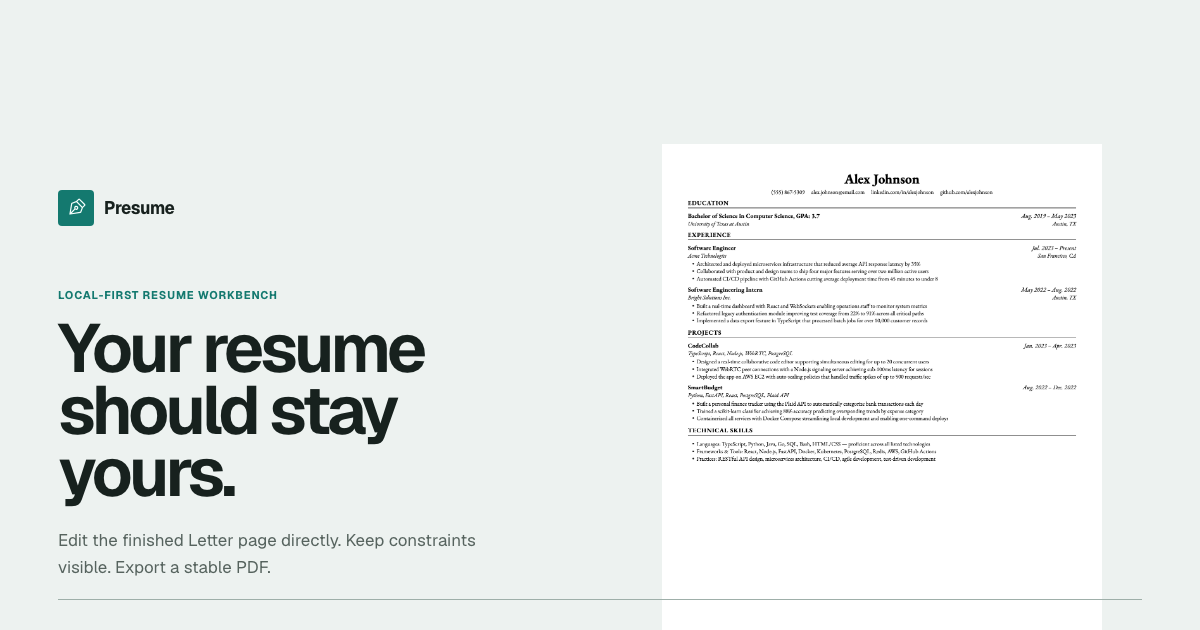
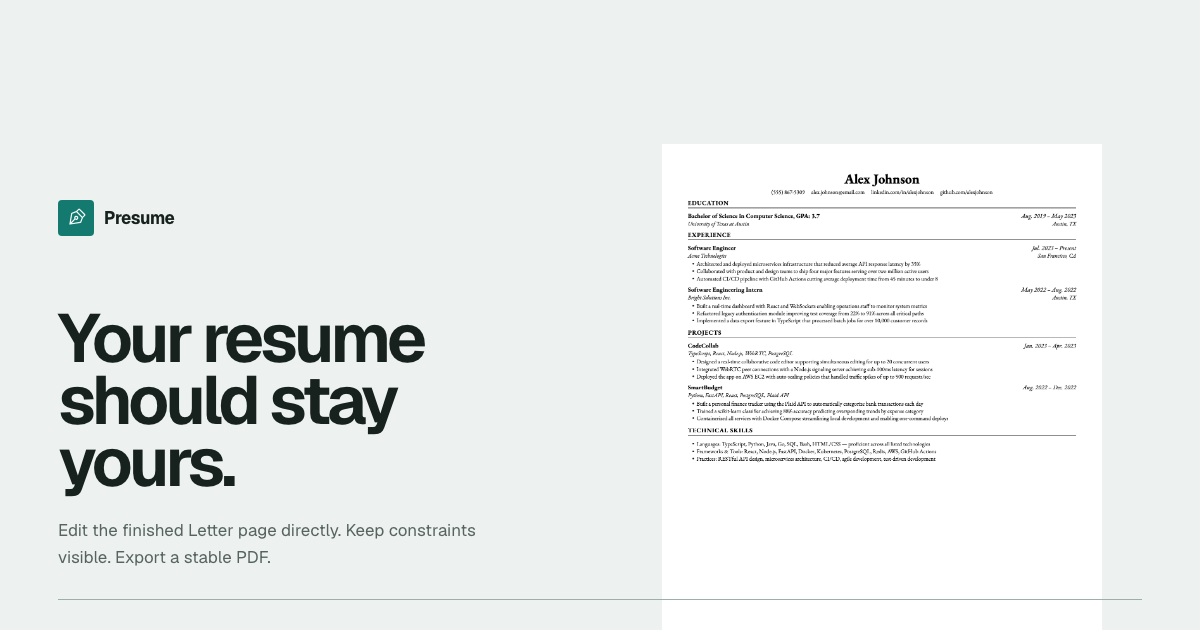
refactor: simplify landing section hierarchy

Changed region(s): [[0.0308, 0.4524, 0.4008, 0.9349], [0.0308, 0.3016, 0.1542, 0.3921]]

diff --git a/src/components/LandingPage.tsx b/src/components/LandingPage.tsx
@@ -162,7 +162,6 @@ export function LandingPage({ hasSavedResume, onOpenEditor }: LandingPageProps) 
       <main id="main" className="landing-main" tabIndex={-1}>
         <section className="landing-hero landing-shell" data-landing-chapter="hero" aria-labelledby="landing-title">
           <div className="landing-hero__copy">
-            <p className="landing-eyebrow"><span className="landing-hero__brand-prefix">Presume · </span>Local-first resume workbench</p>
             <h1 id="landing-title">Your resume should stay yours.</h1>
             <p className="landing-hero__lede">Edit the finished Letter page directly. Presume keeps page and line constraints visible, saves the resume in this browser, and exports a stable PDF. Review remains advisory and never changes the document.</p>
             <div className="landing-hero__action">
@@ -185,7 +184,6 @@ export function LandingPage({ hasSavedResume, onOpenEditor }: LandingPageProps) 
         <section className="landing-fit landing-shell" id="fit" data-landing-chapter="fit" aria-labelledby="fit-title">
           <div className="landing-fit__grid">
             <div className="landing-fit__copy">
-              <p className="landing-eyebrow">Visible constraints</p>
               <h2 id="fit-title">See the page before export.</h2>
               <p>Fit keeps page and line constraints visible while you edit, so you can see wrapping pressure and overflow before export.</p>
             </div>
@@ -210,7 +208,6 @@ export function LandingPage({ hasSavedResume, onOpenEditor }: LandingPageProps) 
         <section className="landing-review" data-landing-chapter="review" aria-labelledby="review-title">
           <div className="landing-review__inner landing-shell">
             <div className="landing-review__copy">
-              <p className="landing-eyebrow">Advisory Review</p>
               <h2 id="review-title">Review advises. It does not edit.</h2>
               <p>When you choose Review and an available service is configured, it can return category scores and supporting evidence beside the resume. It never rewrites or mutates the document.</p>
               <p className="landing-review__signature">It cannot <span>take the pen.</span></p>
@@ -236,7 +233,6 @@ export function LandingPage({ hasSavedResume, onOpenEditor }: LandingPageProps) 
         <section className="landing-boundaries" id="boundaries" data-landing-chapter="boundaries" aria-labelledby="boundaries-title">
           <div className="landing-boundaries__inner landing-shell">
             <div>
-              <p className="landing-eyebrow">Design boundaries</p>
               <h2 id="boundaries-title">Two systems stay explicit.</h2>
             </div>
             <div className="landing-boundaries__list">

diff --git a/src/styles/app.css b/src/styles/app.css
@@ -1070,15 +1070,6 @@ html:has(.landing-page) {
   transform: scaleX(1);
 }
 
-.landing-eyebrow {
-  color: #117168;
-  font-size: 11px;
-  font-weight: 720;
-  letter-spacing: 0.075em;
-  line-height: 1.35;
-  text-transform: uppercase;
-}
-
 .landing-page [data-slot='button'] {
   min-height: 44px;
   border: 1px solid #14796f;
@@ -1115,7 +1106,7 @@ html:has(.landing-page) {
 
 .landing-hero h1 {
   max-width: 10.5ch;
-  margin-block-start: 18px;
+  margin: 0;
   font-size: clamp(64px, 5.8vw, 84px);
   font-weight: 650;
   letter-spacing: -0.057em;
@@ -1161,12 +1152,12 @@ html:has(.landing-page) {
   inset-block-start: 52px;
   inset-inline-end: 0;
   width: 560px;
+  height: calc(560px * 11 / 8.5);
   aspect-ratio: 8.5 / 11;
 }
 
 .landing-letter-stage__image {
   display: block;
-  height: auto;
   background: #fffefb;
   object-fit: cover;
 }
@@ -1233,7 +1224,7 @@ html:has(.landing-page) {
 .landing-thesis__inner {
   display: grid;
   grid-template-columns: 1.25fr 0.75fr;
-  align-items: end;
+  align-items: center;
   gap: 64px;
   padding-block: 110px;
 }
@@ -1271,13 +1262,19 @@ html:has(.landing-page) {
 .landing-review h2,
 .landing-boundaries h2,
 .landing-ending h2 {
-  margin-block-start: 14px;
   font-size: clamp(44px, 4.6vw, 66px);
   font-weight: 640;
   letter-spacing: -0.05em;
   line-height: 0.98;
   text-wrap: balance;
 }
+
+.landing-fit h2,
+.landing-review h2,
+.landing-boundaries h2 { margin: 0; }
+
+.landing-continuity h2,
+.landing-ending h2 { margin-block-start: 14px; }
 
 .landing-fit h2 { max-width: 10ch; }
 
@@ -1555,7 +1552,7 @@ html:has(.landing-page) {
 
 .landing-review h2 { max-width: 10ch; }
 
-.landing-review__copy > p:not(.landing-eyebrow, .landing-review__signature) {
+.landing-review__copy > p:not(.landing-review__signature) {
   max-width: 43ch;
   margin-block-start: 24px;
   color: #56635e;
@@ -1749,6 +1746,7 @@ html:has(.landing-page) {
     inset-inline-end: auto;
     inset-inline-start: 50%;
     width: 500px;
+    height: calc(500px * 11 / 8.5);
     transform: translateX(-50%);
   }
 }
@@ -1820,10 +1818,6 @@ html:has(.landing-page) {
 
 @media (max-width: 400px) {
   .landing-capture--review { aspect-ratio: 366 / 603; }
-}
-
-@media (max-width: 360px) {
-  .landing-hero__brand-prefix { display: none; }
 }
 
 @media (prefers-reduced-motion: reduce) {

diff --git a/src/tests/responsiveLayout.test.ts b/src/tests/responsiveLayout.test.ts
@@ -9,7 +9,7 @@ const indexHtml = readFileSync(`${process.cwd()}/index.html`, 'utf8')
 
 describe('approved landing production contracts', () => {
   it('keeps every approved inclusive responsive boundary and overflow guard', () => {
-    for (const boundary of [1000, 920, 860, 780, 700, 400, 360]) {
+    for (const boundary of [1000, 920, 860, 780, 700, 400]) {
       expect(appCss).toContain(`@media (max-width: ${boundary}px)`)
     }
     expect(appCss).toMatch(/\.landing-page \{[^}]*overflow-x: clip;/)
@@ -42,6 +42,9 @@ describe('approved landing production contracts', () => {
     expect(landingSource).toContain('Resume preview unavailable')
     expect(landingSource).toContain('Product capture unavailable')
     expect(appCss).toMatch(/@media \(max-width: 700px\)[\s\S]*?\.landing-product-stage \{ display: none; \}/)
+    expect(landingSource).not.toContain('landing-eyebrow')
+    expect(appCss).not.toContain('.landing-eyebrow')
+    expect(appCss).toMatch(/\.landing-thesis__inner \{[^}]*align-items: center;/)
     expect(pretextDemoSource).toContain('prepareWithSegments')
     expect(pretextDemoSource).toContain('layoutWithLines')
     expect(pretextDemoSource).toContain('measureLineStats')

diff --git a/src/tests/appIntegration.test.tsx b/src/tests/appIntegration.test.tsx
@@ -85,6 +85,10 @@ describe('App review availability boundaries', () => {
     expect(screen.getByRole('contentinfo')).toBeInTheDocument()
     expect(screen.getAllByRole('heading', { level: 1 })).toHaveLength(1)
     expect(screen.getByRole('heading', { name: 'Your resume should stay yours.' })).toBeInTheDocument()
+    expect(container.querySelector('.landing-eyebrow')).not.toBeInTheDocument()
+    expect(screen.queryByText('Local-first resume workbench')).not.toBeInTheDocument()
+    expect(screen.queryByText('Visible constraints')).not.toBeInTheDocument()
+    expect(screen.queryByText('Advisory Review')).not.toBeInTheDocument()
 
     const chapters = Array.from(container.querySelectorAll('[data-landing-chapter]'))
       .map(chapter => chapter.getAttribute('data-landing-chapter'))

diff --git a/docs/landing/PRESUME_LANDING_BRIEF.md b/docs/landing/PRESUME_LANDING_BRIEF.md
@@ -16,7 +16,7 @@ The hardened comp is the visual and narrative authority. The distilled study is 
 
 Two post-approval factual corrections are incorporated into the archived hardened authority: Review must be configured **and available** before it can return evidence, and the deterministic repository response is displayed with the sample resume rather than validated as content-derived from it.
 
-Later user-approved production reopenings supersede two evidence contracts. The Fit chapter uses the live, text-only Pretext instrument specified below. The hero replaces its framed editor screenshot with an authentic exported Letter surface above 700px and becomes purely typographic at 700px and below. The archived hardened comp and `docs/landing/reference/**` remain historical visual authorities; their Fit and editor-hero rasters are no longer production requirements. All other Quiet Instrument narrative, geometry, capture, and protected-product decisions remain locked.
+Later user-approved production reopenings supersede selected evidence and hierarchy contracts. The Fit chapter uses the live, text-only Pretext instrument specified below. The hero replaces its framed editor screenshot with an authentic exported Letter surface above 700px and becomes purely typographic at 700px and below. Decorative all-caps Verdigris eyebrows are removed from the hero, Fit, Review, and Design Boundaries headings, and the thesis interpretation is vertically centered beside its heading. The archived hardened comp and `docs/landing/reference/**` remain historical visual authorities; their Fit and editor-hero rasters and eyebrow treatment are no longer production requirements. All other Quiet Instrument narrative, geometry, capture, and protected-product decisions remain locked.
 
 ## Resolved profile
 
@@ -79,8 +79,6 @@ This order is locked. Do not insert generic benefits, testimonials, pricing, FAQ
 
 ### Hero
 
-- Eyebrow: **Presume · Local-first resume workbench**
-- Narrowest-screen eyebrow: **Local-first resume workbench**
 - H1: **Your resume should stay yours.**
 - Body: **Edit the finished Letter page directly. Presume keeps page and line constraints visible, saves the resume in this browser, and exports a stable PDF. Review remains advisory and never changes the document.**
 - Default primary action: **Open the editor**
@@ -97,7 +95,6 @@ This order is locked. Do not insert generic benefits, testimonials, pricing, FAQ
 
 ### Fit
 
-- Eyebrow: **Visible constraints**
 - Heading: **See the page before export.**
 - Body: **Fit keeps page and line constraints visible while you edit, so you can see wrapping pressure and overflow before export.**
 - Instrument label: **Pretext measures**
@@ -116,7 +113,6 @@ This order is locked. Do not insert generic benefits, testimonials, pricing, FAQ
 
 ### Review
 
-- Eyebrow: **Advisory Review**
 - Heading: **Review advises. It does not edit.**
 - Body: **When you choose Review and an available service is configured, it can return category scores and supporting evidence beside the resume. It never rewrites or mutates the document.**
 - Signature: **It cannot take the pen.**
@@ -127,7 +123,6 @@ The `81 / 100` result is the repository’s deterministic configured-review E2E 
 
 ### Design Boundaries
 
-- Eyebrow: **Design boundaries**
 - Heading: **Two systems stay explicit.**
 - Measurement: **Pretext ↗ supplies text-layout primitives. Presume exposes their effect through Fit instead of hiding page pressure.**
 - Advisory review: **Optional Review runs through a separate local or self-hosted service using a Hiring Agent adapter ↗. Returned evidence stays separate from the editable resume.**
@@ -185,10 +180,10 @@ No gradients, glass, glow, beige app backgrounds, decorative semantic colors, or
 - Large landing display sizes are a landing-only extension of the product typography system.
 - Headings use controlled negative tracking and compact line height.
 - Primary body measures use `39ch`–`48ch`; provenance copy may extend to `56ch`; no landing prose block exceeds `56ch`. Body line height remains between 1.62 and 1.7.
-- Eyebrows are 11px, uppercase, approximately `0.075em` tracked.
+- Decorative heading eyebrows are not used. Uppercase functional labels remain limited to instruments and evidence provenance where they identify real state or data.
 - Meaningful captions are at least 13px.
 - Review signature is 20px desktop and 18px narrow.
-- Do not allow body selectors to override eyebrow, caption, or signature roles.
+- Do not allow body selectors to override caption, functional-label, or signature roles.
 - The hero H1 must remain within three lines at every supported width.
 
 ### Geometry
@@ -223,7 +218,7 @@ No gradients, glass, glow, beige app backgrounds, decorative semantic colors, or
 ### Thesis
 
 - Bright neutral full-width chapter.
-- Desktop: large statement left, concise interpretation right, aligned toward the chapter baseline.
+- Desktop: large statement left, concise interpretation right, vertically centered against the full heading block rather than bottom-aligned.
 - At 700px and below: stack in reading order.
 - Preserve the approved asymmetric composition; do not center it or replace the approved wording.
 
@@ -283,7 +278,6 @@ No gradients, glass, glow, beige app backgrounds, decorative semantic colors, or
 | 780px and below | Continuity and Design Boundaries stack |
 | 700px and below | Purely typographic hero with no media space, narrow gutters, simplified nav, full-width hero CTA, compact evidence padding |
 | 400px and below | Use the phone-art-directed Review source; keep the live Fit instrument clamped to its stage |
-| 360px and below | Remove `Presume ·` prefix from the hero eyebrow |
 
 Requirements:
 
@@ -456,7 +450,7 @@ Do not copy the disposable HTML wholesale into production. Translate the approve
 1. Add final, base-safe Geist and product-evidence assets.
 2. Rebuild `LandingPage` semantic structure and preserve saved-resume CTA state.
 3. Implement the Mineral Quiet landing tokens and desktop composition.
-4. Implement staggered responsive transformations at 1000, 920, 860, 780, 700, 400, and 360px.
+4. Implement staggered responsive transformations at 1000, 920, 860, 780, 700, and 400px.
 5. Add only the approved motion and reduced-motion behavior.
 6. Add metadata, canonical/social preview, and favicon behavior.
 7. Update landing integration and responsive contracts.

diff --git a/docs/landing/PRODUCTION_CAPTURE_MANIFEST.md b/docs/landing/PRODUCTION_CAPTURE_MANIFEST.md
@@ -84,10 +84,10 @@ fcb7b0ff927bbfb652789326e49748cf044a89a0b49b167699f4951382ed02de  public/landing
 2ba17df580352d81a37c2ae59c73acaf1563d1312cd31316d23c337b5ddb1378  public/landing/working-review-capture-hardened@2x.png
 84d2c61ba6673ca8c291d835a12e45d71c20187000b4ff6527c1d666f1f99c2a  public/landing/working-review-narrow-essential-hardened.png
 b897f799bba72e3d3cfc7f9c00e941a62e420d1d4a6d86f0a1b0c7d31fb87e3c  public/landing/working-review-narrow-essential-hardened@2x.png
-305b5813427bb10dbea763fd7336098ab2600b0d1a278198445c1719dac29371  public/landing/social-preview.png
+07e26550b6da014fb2756bc7c549a47866bb7baeefc82a99063afd27fa9eee12  public/landing/social-preview.png
 16174f165f6e5a5a019a0f256f8dff4a17755e90f5395efe7ea3ea9899380ec4  public/favicon.svg
 910646fabfec799ef9703b823949c75d4b6d8117ed5907af4de297767b0073ed  scripts/generate-landing-letter.mjs
-55fe09fdd8202640c026a8473d932703166e51a19fc4397a447de41e3256bafa  scripts/generate-landing-social.mjs
+71f77021cba016af2daa430409f1ec78e8ad7b1120fad733632ac10680c24b21  scripts/generate-landing-social.mjs
 ```
 
 Re-run the checksum comparison whenever the Letter generator, Letter outputs, Review production capture, or social generator changes. A changed source state requires a new manifest entry rather than silently replacing these files. Changes to the live Fit instrument are verified as code, interaction, accessibility, and responsive behavior rather than image provenance.

diff --git a/docs/landing/reference/MANIFEST.md b/docs/landing/reference/MANIFEST.md
@@ -2,7 +2,7 @@
 
 ## Purpose
 
-This directory preserves the approved **Direction D — Current hardened** visual handoff. Later user-approved reopenings replaced its static Fit raster with a live text-only Pretext instrument and its framed editor hero with an authentic exported Letter surface above 700px plus a purely typographic mobile hero. `docs/landing/PRESUME_LANDING_BRIEF.md` is authoritative for those production exceptions. The archived comp, assets, and baselines remain unchanged historical references.
+This directory preserves the approved **Direction D — Current hardened** visual handoff. Later user-approved reopenings replaced its static Fit raster with a live text-only Pretext instrument, its framed editor hero with an authentic exported Letter surface above 700px plus a purely typographic mobile hero, its decorative heading eyebrows with direct headings, and its bottom-aligned thesis interpretation with vertical centering. `docs/landing/PRESUME_LANDING_BRIEF.md` is authoritative for those production exceptions. The archived comp, assets, and baselines remain unchanged historical references.
 
 Serve it from this directory so the comp’s absolute `/files/` references resolve:
 
